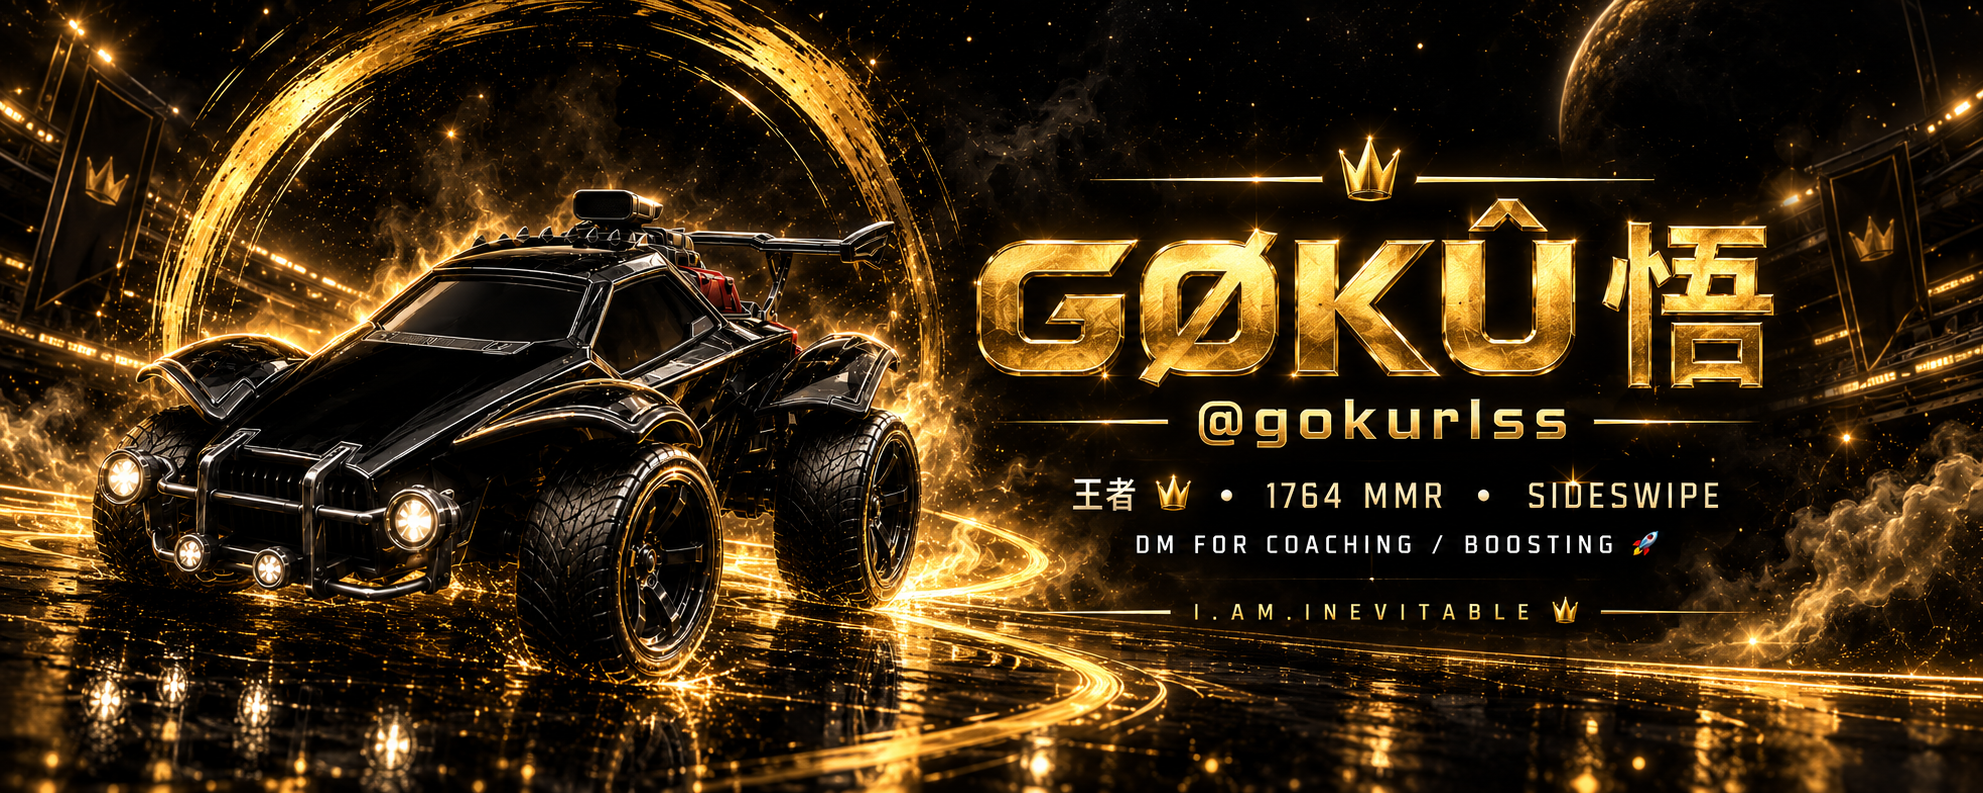
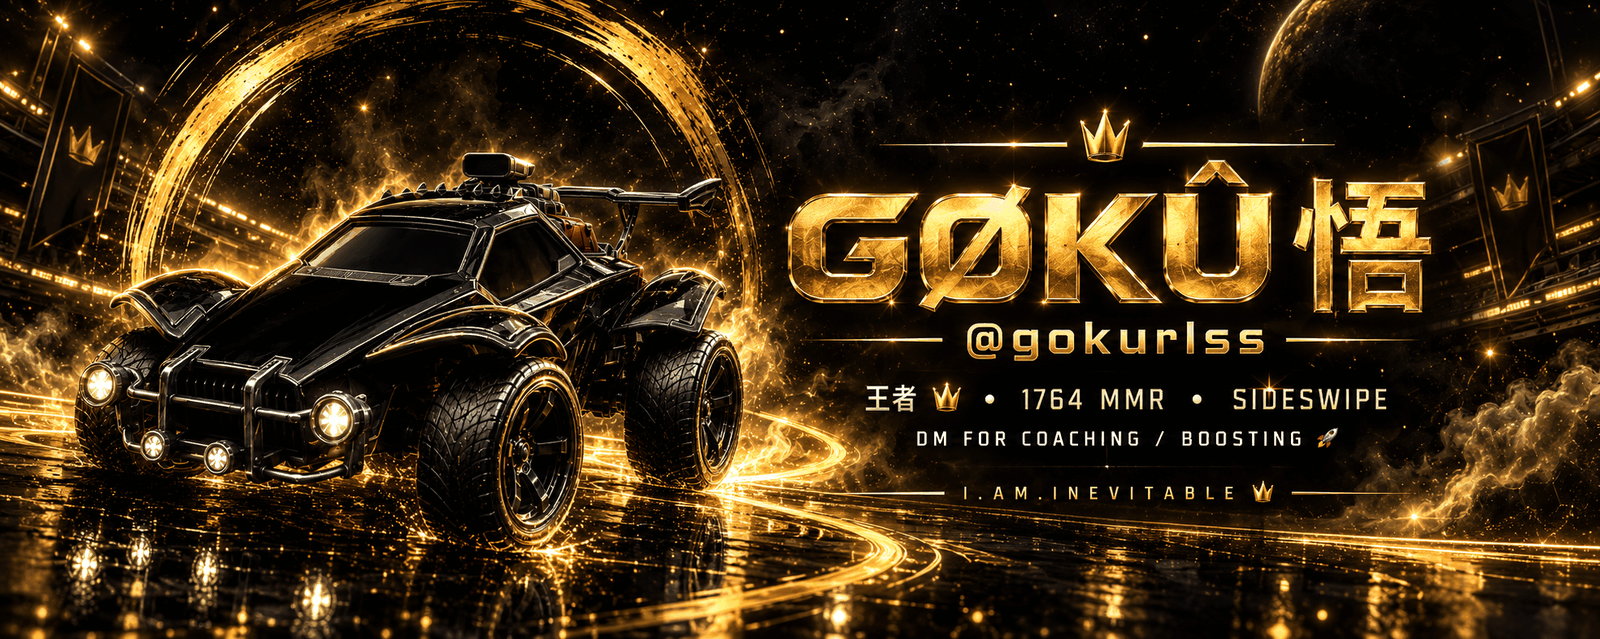
🚀 93% image compression + dynamic iPad and desktop screen fitting

diff --git a/styles.css b/styles.css
@@ -81,7 +81,7 @@ html, body {
   background: radial-gradient(circle, #8C6514 0%, #B8860B 50%, transparent 70%);
 }
 
-/* Mobile Phone Frame / Wrapper */
+/* Mobile Phone Frame / Dynamic Wrapper */
 .phone-wrapper {
   position: relative;
   z-index: 1;
@@ -90,34 +90,34 @@ html, body {
   display: flex;
   justify-content: center;
   align-items: flex-start;
-  padding: 24px 12px calc(var(--safe-bottom) + 24px) 12px;
+  padding: clamp(16px, 3vw, 40px) clamp(10px, 2vw, 24px) calc(var(--safe-bottom) + clamp(16px, 3vw, 40px)) clamp(10px, 2vw, 24px);
 }
 
 .phone-shell {
   width: 100%;
-  max-width: 440px;
-  min-height: 90vh;
-  background: rgba(10, 10, 13, 0.88);
+  max-width: clamp(420px, 85vw, 780px);
+  min-height: 85vh;
+  background: rgba(10, 10, 13, 0.90);
   border: 1px solid var(--border-gold-subtle);
-  border-radius: 36px;
+  border-radius: clamp(24px, 4vw, 36px);
   box-shadow: 
     0 25px 60px -10px rgba(0, 0, 0, 0.85),
-    0 0 35px rgba(212, 175, 55, 0.12),
-    inset 0 1px 1px rgba(255, 235, 170, 0.25);
+    0 0 40px rgba(212, 175, 55, 0.15),
+    inset 0 1px 1px rgba(255, 235, 170, 0.28);
   backdrop-filter: blur(24px);
   -webkit-backdrop-filter: blur(24px);
   overflow: hidden;
   display: flex;
   flex-direction: column;
   position: relative;
-  transition: box-shadow 0.4s ease;
+  transition: all 0.35s ease;
 }
 
 .phone-shell:hover {
   box-shadow: 
-    0 30px 70px -10px rgba(0, 0, 0, 0.95),
-    0 0 45px rgba(212, 175, 55, 0.22),
-    inset 0 1px 1px rgba(255, 235, 170, 0.35);
+    0 30px 75px -10px rgba(0, 0, 0, 0.95),
+    0 0 50px rgba(212, 175, 55, 0.25),
+    inset 0 1px 2px rgba(255, 235, 170, 0.38);
 }
 
 /* Top Nav Bar */
@@ -192,7 +192,7 @@ html, body {
 .banner-wrapper {
   position: relative;
   width: 100%;
-  height: 160px;
+  height: clamp(160px, 24vw, 280px);
   overflow: hidden;
   background: #000;
 }
@@ -435,8 +435,9 @@ html, body {
 .links-section {
   display: flex;
   flex-direction: column;
-  gap: 9px;
-  padding: 6px 14px 16px 14px;
+  gap: clamp(9px, 1.4vw, 13px);
+  padding: 8px clamp(14px, 3.5vw, 32px) 20px clamp(14px, 3.5vw, 32px);
+  width: 100%;
 }
 
 /* Link Card Base */
@@ -752,3 +753,58 @@ html, body {
     justify-content: center;
   }
 }
+
+/* Tablet & iPad Enhancements (min-width: 600px) */
+@media (min-width: 600px) {
+  .display-name {
+    font-size: 30px;
+  }
+  .kanji {
+    font-size: 32px;
+  }
+  .avatar-ring-container {
+    width: 108px;
+    height: 108px;
+  }
+  .avatar-img {
+    width: 98px;
+    height: 98px;
+  }
+  .link-card {
+    padding: 13px 18px;
+    gap: 16px;
+    border-radius: 18px;
+  }
+  .card-icon-wrap {
+    width: 48px;
+    height: 48px;
+    min-width: 48px;
+    font-size: 22px;
+  }
+  .card-title {
+    font-size: 16px;
+  }
+  .card-subtitle {
+    font-size: 13px;
+  }
+}
+
+/* Laptops & Wide Desktop Displays (min-width: 1024px) */
+@media (min-width: 1024px) {
+  .phone-shell {
+    max-width: 820px;
+  }
+  .display-name {
+    font-size: 34px;
+  }
+  .kanji {
+    font-size: 36px;
+  }
+  .banner-wrapper {
+    height: clamp(230px, 20vw, 300px);
+  }
+  .link-card {
+    padding: 14px 22px;
+  }
+}
+

diff --git a/index.html b/index.html
@@ -53,7 +53,10 @@
 
       <!-- Banner Container -->
       <div class="banner-wrapper">
-        <img src="assets/banner.png" alt="GØKÛ Banner" class="banner-img">
+        <picture>
+          <source srcset="assets/banner.webp" type="image/webp">
+          <img src="assets/banner.jpg" alt="GØKÛ Banner" class="banner-img" fetchpriority="high">
+        </picture>
         <div class="banner-overlay"></div>
       </div>
 
@@ -62,7 +65,10 @@
         <div class="avatar-ring-container">
           <div class="avatar-glow-ring"></div>
           <div class="avatar-glow-ring ring-secondary"></div>
-          <img src="assets/pfp.png" alt="GØKÛ PFP" class="avatar-img">
+          <picture>
+            <source srcset="assets/pfp.webp" type="image/webp">
+            <img src="assets/pfp.jpg" alt="GØKÛ PFP" class="avatar-img" fetchpriority="high">
+          </picture>
           <div class="verified-badge" title="Verified Champion">
             <i class="fa-solid fa-crown"></i>
           </div>
